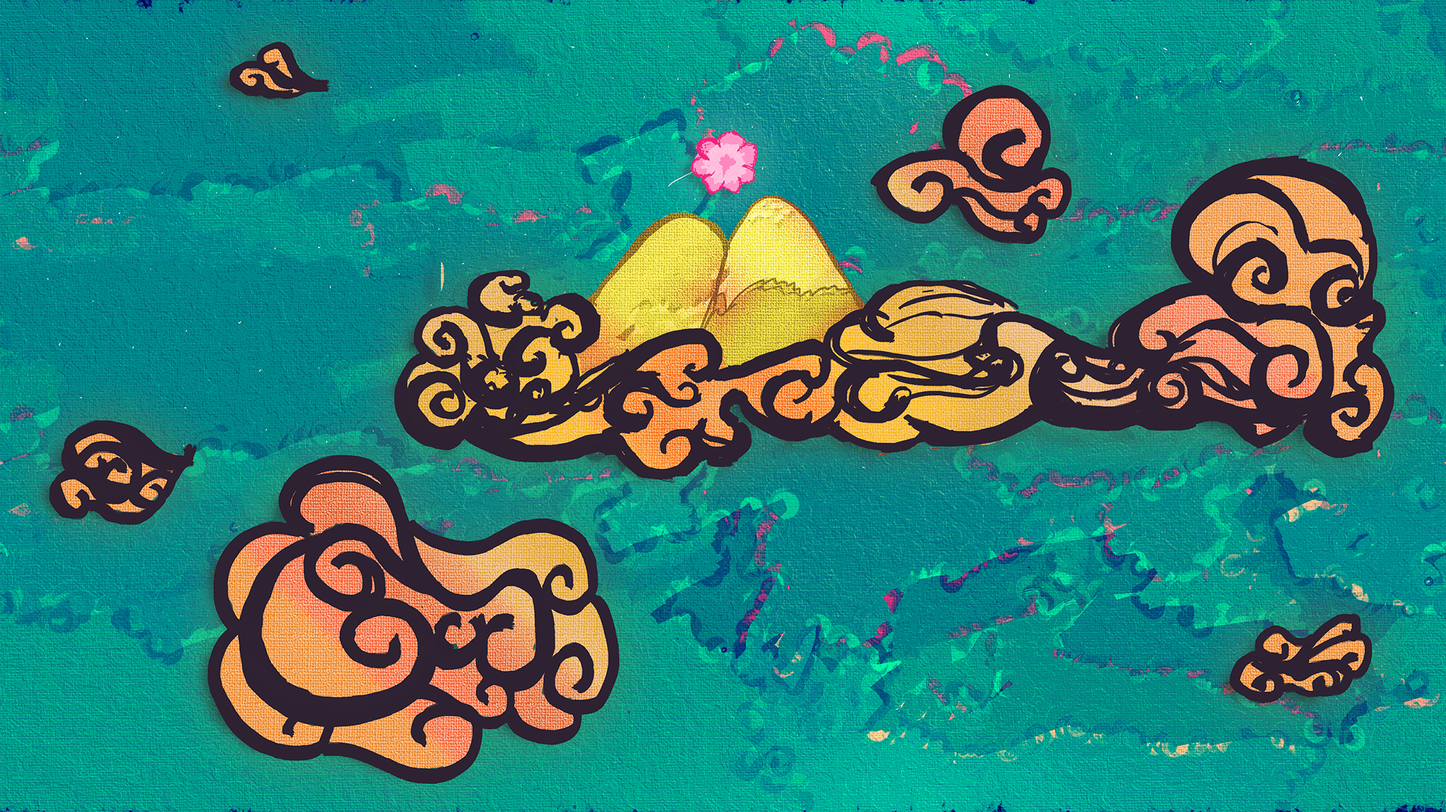
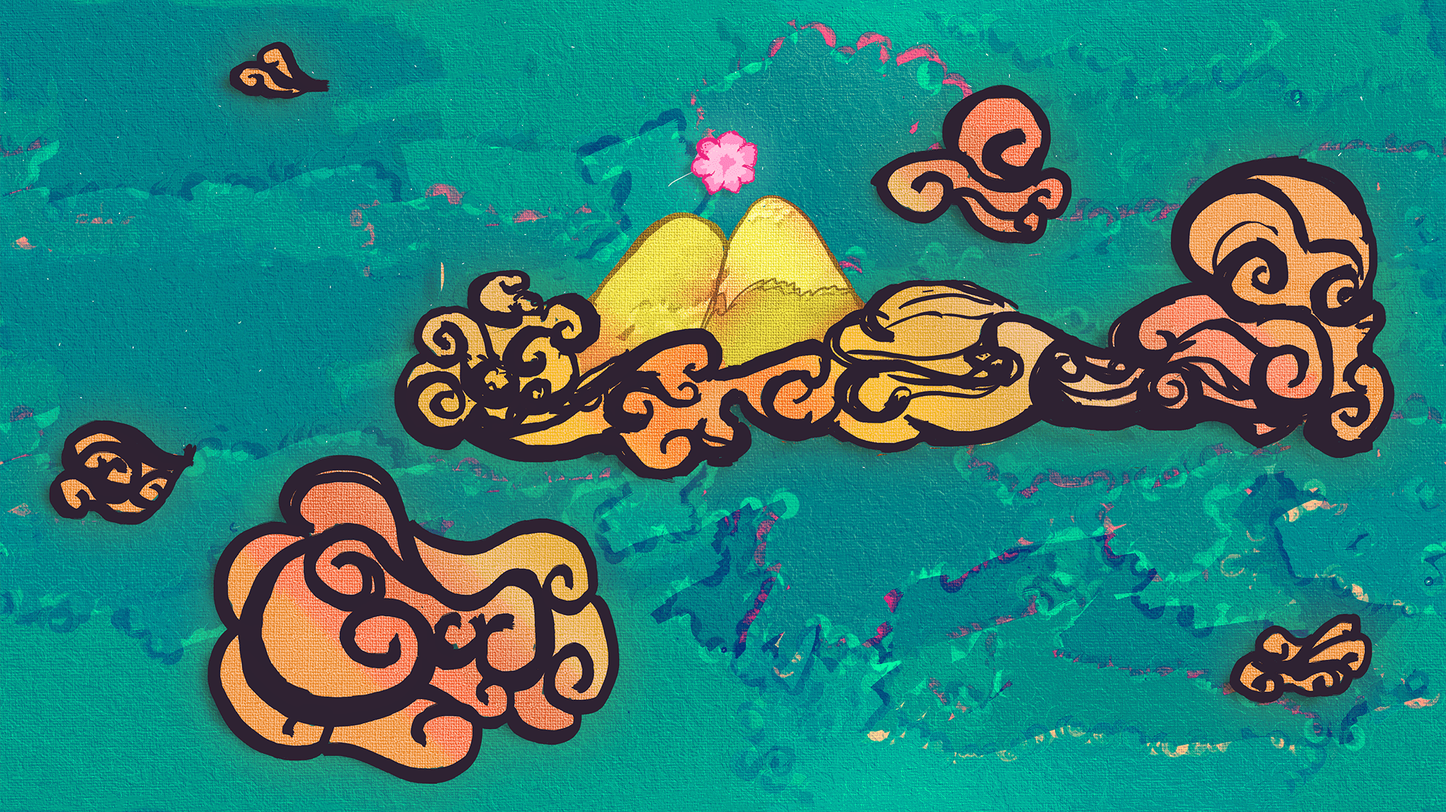
seamless background updated

Changed region(s): [[0.0, 0.9662, 1.0, 1.0], [0.0, 0.0, 1.0, 0.0935]]

diff --git a/NimbusRun/core/src/com/lemoninc/nimbusrun/Sprites/Ground.java b/NimbusRun/core/src/com/lemoninc/nimbusrun/Sprites/Ground.java
@@ -7,7 +7,7 @@ package com.lemoninc.nimbusrun.Sprites;
  * PUBLIC FUNCTIONS :
  *       none
  * NOTES :
- * LAST UPDATED: 11/4/2016 22:00
+ * LAST UPDATED: 14/4/2016 13:10
  *
  * ********************************/
 
@@ -17,6 +17,7 @@ import com.badlogic.gdx.physics.box2d.BodyDef;
 import com.badlogic.gdx.physics.box2d.EdgeShape;
 import com.badlogic.gdx.physics.box2d.FixtureDef;
 import com.badlogic.gdx.physics.box2d.World;
+import com.esotericsoftware.minlog.Log;
 
 import java.util.Random;
 
@@ -38,6 +39,7 @@ public class Ground {
         startX = endX;
         endX += gameMap.getGameport().getWorldWidth() * 2;
 
+        //Log.info("Each platform is " + gameMap.getGameport().getWorldWidth()*2 + " long.");
         for (int i = 0; i < 8; i++){
             Random rand = new Random();
             int choice = rand.nextInt(4);
@@ -67,6 +69,7 @@ public class Ground {
         FixtureDef fdef = new FixtureDef();
         EdgeShape edgeShape = new EdgeShape();
         edgeShape.set(x1, y1, x2, y2);
+        //Log.info("Flat coordinates: (" + x1 + " " + y1 + ") and (" + + x2 + " " + y2 + ")");
         fdef.shape = edgeShape;
         b2body.createFixture(fdef);
         edgeShape.dispose();
@@ -86,6 +89,7 @@ public class Ground {
 
         //flat plain
         edgeShape.set(x1, y1, x2, y2);
+        //Log.info("Plateau p1 coordinates: (" + x1 + " " + y1 + ") and (" + + x2 + " " + y2 + ")");
         fdef.shape = edgeShape;
         b2body.createFixture(fdef);
 
@@ -93,6 +97,7 @@ public class Ground {
         x1 = x2;
         y2 += gameMap.getGameport().getWorldHeight()*0.75;
         edgeShape.set(x1, y1, x2, y2);
+        //Log.info("Plateau p2 coordinates: (" + x1 + " " + y1 + ") and (" + + x2 + " " + y2 + ")");
         fdef.shape = edgeShape;
         b2body.createFixture(fdef);
 
@@ -101,6 +106,7 @@ public class Ground {
         y1 = y2;
         x2 += segment*6;
         edgeShape.set(x1, y1, x2, y2);
+        //Log.info("Plateau p3 coordinates: (" + x1 + " " + y1 + ") and (" + + x2 + " " + y2 + ")");
         fdef.shape = edgeShape;
         b2body.createFixture(fdef);
 
@@ -108,6 +114,7 @@ public class Ground {
         x1 = x2;
         y2 -= gameMap.getGameport().getWorldHeight()*0.75f;
         edgeShape.set(x1, y1, x2, y2);
+        //Log.info("Plateau p4 coordinates: (" + x1 + " " + y1 + ") and (" + + x2 + " " + y2 + ")");
         fdef.shape = edgeShape;
         b2body.createFixture(fdef);
 
@@ -116,6 +123,7 @@ public class Ground {
         y1 = y2;
         x2 += segment;
         edgeShape.set(x1, y1, x2, y2);
+        //Log.info("Plateau p5 coordinates: (" + x1 + " " + y1 + ") and (" + + x2 + " " + y2 + ")");
         fdef.shape = edgeShape;
         b2body.createFixture(fdef);
     }
@@ -134,6 +142,7 @@ public class Ground {
 
         //flat plain
         edgeShape.set(x1, y1, x2, y2);
+        //Log.info("Mountain p1 coordinates: (" + x1 + " " + y1 + ") and (" + + x2 + " " + y2 + ")");
         fdef.shape = edgeShape;
         b2body.createFixture(fdef);
 
@@ -142,6 +151,7 @@ public class Ground {
         x2 += segment;
         y2 += gameMap.getGameport().getWorldHeight()*0.75f;
         edgeShape.set(x1, y1, x2, y2);
+        //Log.info("Mountain p2 coordinates: (" + x1 + " " + y1 + ") and (" + + x2 + " " + y2 + ")");
         fdef.shape = edgeShape;
         b2body.createFixture(fdef);
 
@@ -150,6 +160,7 @@ public class Ground {
         y1 = y2;
         x2 += segment;
         edgeShape.set(x1, y1, x2, y2);
+        //Log.info("Mountain p3 coordinates: (" + x1 + " " + y1 + ") and (" + + x2 + " " + y2 + ")");
         fdef.shape = edgeShape;
         b2body.createFixture(fdef);
 
@@ -158,6 +169,7 @@ public class Ground {
         x2 += segment;
         y2 += gameMap.getGameport().getWorldHeight()*0.75f;
         edgeShape.set(x1, y1, x2, y2);
+        //Log.info("Mountain p4 coordinates: (" + x1 + " " + y1 + ") and (" + + x2 + " " + y2 + ")");
         fdef.shape = edgeShape;
         b2body.createFixture(fdef);
 
@@ -167,6 +179,7 @@ public class Ground {
         y1 = y2;
         y2 -= gameMap.getGameport().getWorldHeight()*0.75f;
         edgeShape.set(x1, y1, x2, y2);
+        //Log.info("Mountain p5 coordinates: (" + x1 + " " + y1 + ") and (" + + x2 + " " + y2 + ")");
         fdef.shape = edgeShape;
         b2body.createFixture(fdef);
 
@@ -175,6 +188,7 @@ public class Ground {
         y1 = y2;
         x2 += segment;
         edgeShape.set(x1, y1, x2, y2);
+        //Log.info("Mountain p6 coordinates: (" + x1 + " " + y1 + ") and (" + + x2 + " " + y2 + ")");
         fdef.shape = edgeShape;
         b2body.createFixture(fdef);
 
@@ -184,6 +198,7 @@ public class Ground {
         y1 = y2;
         y2 -= gameMap.getGameport().getWorldHeight()*0.75f;
         edgeShape.set(x1, y1, x2, y2);
+        //Log.info("Mountain p7 coordinates: (" + x1 + " " + y1 + ") and (" + + x2 + " " + y2 + ")");
         fdef.shape = edgeShape;
         b2body.createFixture(fdef);
 
@@ -192,6 +207,7 @@ public class Ground {
         y1 = y2;
         x2 += segment;
         edgeShape.set(x1, y1, x2, y2);
+        //Log.info("Mountain p8 coordinates: (" + x1 + " " + y1 + ") and (" + + x2 + " " + y2 + ")");
         fdef.shape = edgeShape;
         b2body.createFixture(fdef);
 
@@ -211,6 +227,7 @@ public class Ground {
 
         //flat plain
         edgeShape.set(x1, y1, x2, y2);
+        //Log.info("Pit p1 coordinates: (" + x1 + " " + y1 + ") and (" + + x2 + " " + y2 + ")");
         fdef.shape = edgeShape;
         b2body.createFixture(fdef);
 
@@ -219,6 +236,7 @@ public class Ground {
         x2 += segment;
         y2 -= gameMap.getGameport().getWorldHeight()*.75f;
         edgeShape.set(x1, y1, x2, y2);
+        //Log.info("Pit p2 coordinates: (" + x1 + " " + y1 + ") and (" + + x2 + " " + y2 + ")");
         fdef.shape = edgeShape;
         b2body.createFixture(fdef);
 
@@ -227,6 +245,7 @@ public class Ground {
         y1 = y2;
         x2 += segment;
         edgeShape.set(x1, y1, x2, y2);
+        //Log.info("Pit p3 coordinates: (" + x1 + " " + y1 + ") and (" + + x2 + " " + y2 + ")");
         fdef.shape = edgeShape;
         b2body.createFixture(fdef);
 
@@ -234,6 +253,7 @@ public class Ground {
         x1 = x2;
         y2 -= gameMap.getGameport().getWorldHeight()*0.4f;
         edgeShape.set(x1, y1, x2, y2);
+        //Log.info("Pit p4 coordinates: (" + x1 + " " + y1 + ") and (" + + x2 + " " + y2 + ")");
         fdef.shape = edgeShape;
         b2body.createFixture(fdef);
 
@@ -242,6 +262,7 @@ public class Ground {
         y1 = y2;
         x2 += segment*2;
         edgeShape.set(x1, y1, x2, y2);
+        //Log.info("Pit p5 coordinates: (" + x1 + " " + y1 + ") and (" + + x2 + " " + y2 + ")");
         fdef.shape = edgeShape;
         b2body.createFixture(fdef);
 
@@ -249,6 +270,7 @@ public class Ground {
         x1 = x2;
         y2 += gameMap.getGameport().getWorldHeight()*0.4f;
         edgeShape.set(x1, y1, x2, y2);
+        //Log.info("Pit p6 coordinates: (" + x1 + " " + y1 + ") and (" + + x2 + " " + y2 + ")");
         fdef.shape = edgeShape;
         b2body.createFixture(fdef);
 
@@ -257,6 +279,7 @@ public class Ground {
         y1 = y2;
         x2 += segment;
         edgeShape.set(x1, y1, x2, y2);
+        //Log.info("Pit p7 coordinates: (" + x1 + " " + y1 + ") and (" + + x2 + " " + y2 + ")");
         fdef.shape = edgeShape;
         b2body.createFixture(fdef);
 
@@ -265,6 +288,7 @@ public class Ground {
         x2 += segment;
         y2 += gameMap.getGameport().getWorldHeight()*.75f;
         edgeShape.set(x1, y1, x2, y2);
+        //Log.info("Pit p8 coordinates: (" + x1 + " " + y1 + ") and (" + + x2 + " " + y2 + ")");
         fdef.shape = edgeShape;
         b2body.createFixture(fdef);
 
@@ -273,6 +297,7 @@ public class Ground {
         y1 = y2;
         x2 += segment;
         edgeShape.set(x1, y1, x2, y2);
+        //Log.info("Pit p9 coordinates: (" + x1 + " " + y1 + ") and (" + + x2 + " " + y2 + ")");
         fdef.shape = edgeShape;
         b2body.createFixture(fdef);
     }

diff --git a/NimbusRun/core/src/com/lemoninc/nimbusrun/Sprites/GameMap.java b/NimbusRun/core/src/com/lemoninc/nimbusrun/Sprites/GameMap.java
@@ -12,7 +12,7 @@ package com.lemoninc.nimbusrun.Sprites;
  *       Viewport   getGamePort()
  *       public synchronized void logInfo(String string)
  * NOTES :
- * LAST UPDATED: 12/4/2016 10:00
+ * LAST UPDATED: 14/4/2016 23:59
  *
  * ********************************/
 
@@ -54,9 +54,9 @@ public class GameMap implements InputProcessor{
     private Viewport gameport;
 
     private SpriteBatch batch;
-    private Texture background;
+    private Texture bgTexture;
     private float bgHeight, bgWidth;
-    private Sprite bgSprite1, bgSprite2;
+    private Sprite bgSpriteA1, bgSpriteA2, bgSpriteB1, bgSpriteB2;
     private float bgStartX, bgStartY;
 
     private World world;
@@ -94,7 +94,7 @@ public class GameMap implements InputProcessor{
 
         //set starting pos of bgSprites after setting cam
         bgStartX = -gameport.getWorldWidth() * 1.5f;
-        bgStartY = -gameport.getWorldHeight() * 1.2f;
+        bgStartY = -gameport.getWorldHeight() * 1.5f;
         Log.info(bgStartY + " y pos");
         batch = new SpriteBatch();
 
@@ -154,14 +154,16 @@ public class GameMap implements InputProcessor{
             default: img = new TextureAtlas(Gdx.files.internal("spritesheets/PTspritesheet.atlas")); break;
         }
 
-        background = new Texture("PlayScreen/bg.png");
-        bgSprite1 = new Sprite(background);
-        bgWidth = background.getWidth() / NimbusRun.PPM * 1.4f;
-        bgHeight = background.getHeight() / NimbusRun.PPM * 1.4f;
-        bgSprite1.setX(bgStartX);
-        bgSprite1.setY(bgStartY);
-        bgSprite1.setSize(bgWidth, bgHeight);
-        bgSprite2 = new Sprite(bgSprite1);
+        // initialise all background sprites
+        bgTexture = new Texture("PlayScreen/bg.png");
+        bgTexture.setWrap(Texture.TextureWrap.Repeat, Texture.TextureWrap.Repeat);
+        bgSpriteA1 = new Sprite(new TextureRegion(bgTexture, bgTexture.getWidth()*11, bgTexture.getHeight()*2));
+        bgWidth = bgTexture.getWidth() / NimbusRun.PPM * 1.4f * 11;
+        bgHeight = bgTexture.getHeight() / NimbusRun.PPM * 1.4f * 2;
+        bgSpriteA1.setX(bgStartX);
+        bgSpriteA1.setY(bgStartY);
+        bgSpriteA1.setSize(bgWidth, bgHeight);
+        //bgSpriteA2 = new Sprite(bgSpriteA1);
 
     }
 
@@ -267,12 +269,15 @@ public class GameMap implements InputProcessor{
         batch.begin();
 
         // Update background sprite positions and draw anew
+        /*
         if(gamecam.position.x -bgWidth/2> bgSprite2.getX()){
             bgSprite1.setX(bgSprite2.getX());
             bgSprite2.setX(bgSprite1.getX()+bgWidth); }
         bgSprite1.draw(batch);
         bgSprite2.draw(batch);
+        */
 
+        bgSpriteA1.draw(batch);
         // Render Players
         for (Map.Entry<Integer, Player> playerEntry : players.entrySet()) {
             Player curPlayer = playerEntry.getValue();
